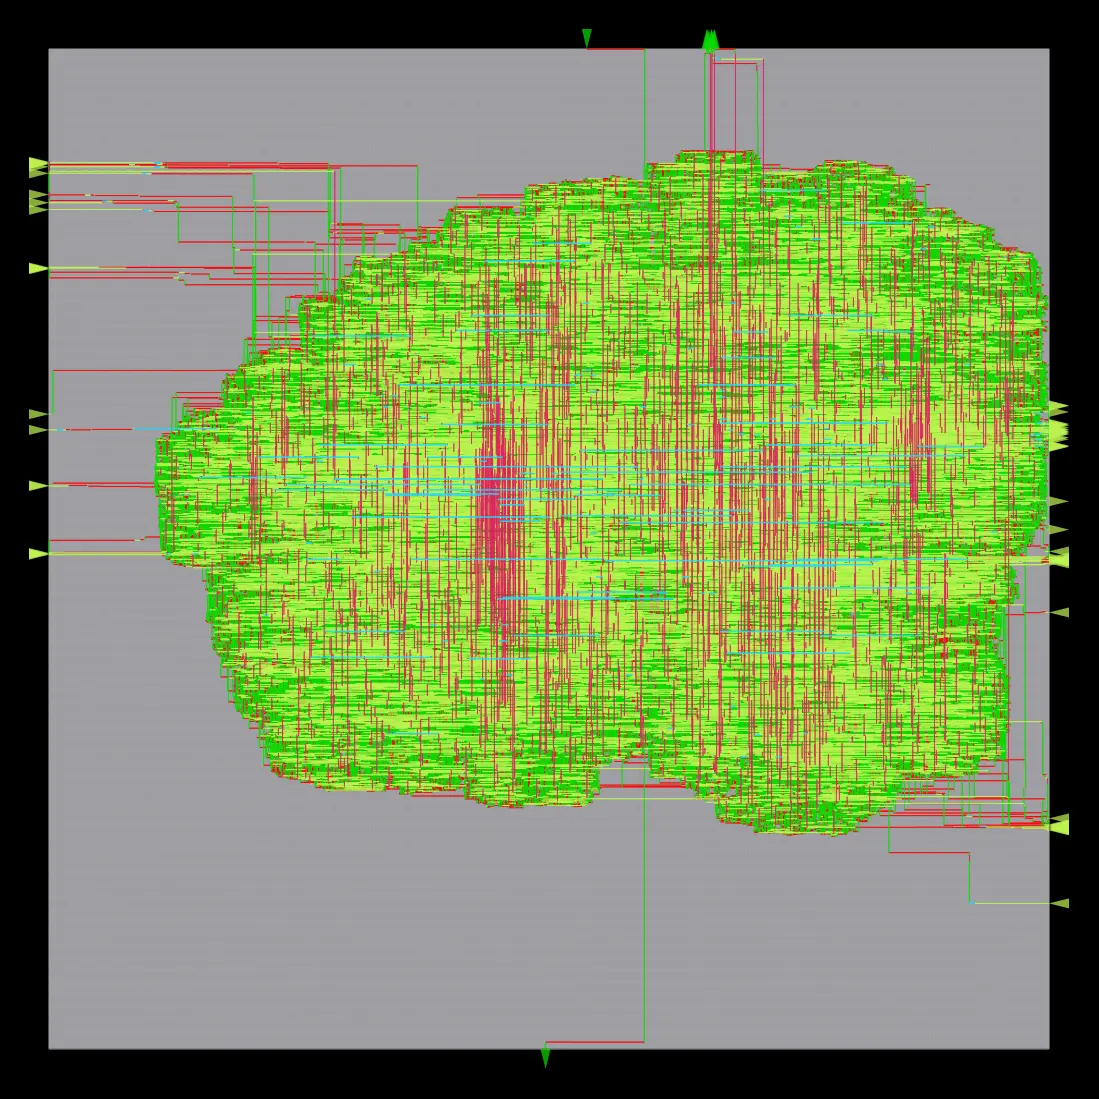
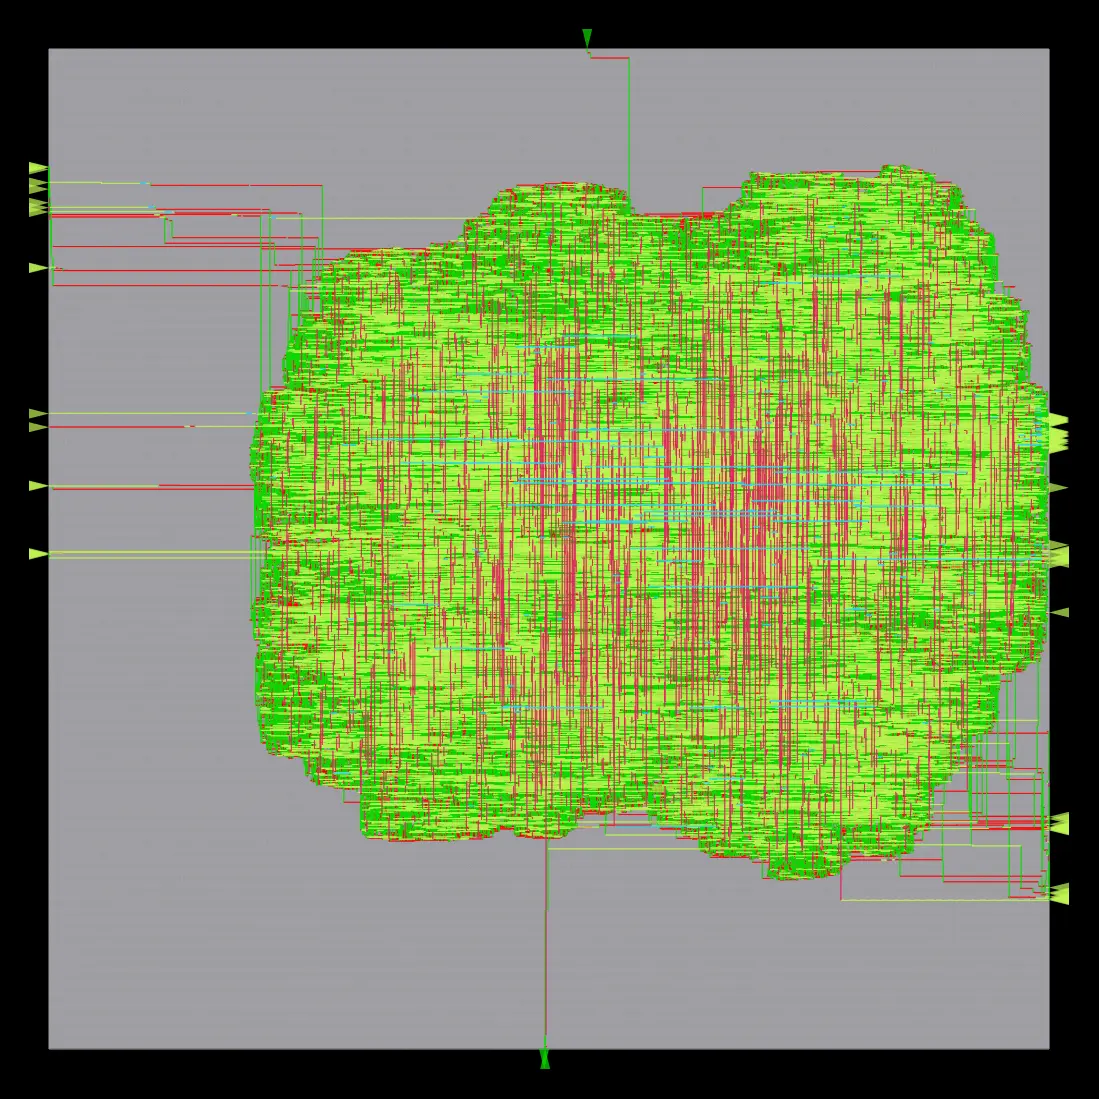
feat(p4): khnum_sram_1rw_1024x32 timing CLOSED at 6.2ns after 5 tuning attempts (#17)
WNS 0.00 ns, 0 routing-DRC violations, 0 antenna violations, 1,533,880 um^2
@ 25% utilization, 7.80 GiB peak route RAM. Full iteration history in
harden/HARDEN_RESULTS.md: 5 attempts total across this session, including a
genuinely surprising lesson -- clock period has a NON-MONOTONIC effect on
routing congestion here. 6.0ns routed clean (WNS -0.03ns, so close);
loosening to 6.5ns (intuitively "easier") instead FAILED global routing on
congestion; a smaller step to 6.2ns routed clean AND closed timing. A
looser timing budget changes how hard the resizer buffers/upsizes cells,
which changes placement density in ways that don't track the clock period
linearly -- worth knowing before tuning 2Kx64 or any future size.

New gallery screenshots overwrite the earlier not-closed ones. P4 now 2/3
sizes timing-closed; 2Kx64's recipe is prepped and merged but not yet run.

diff --git a/STATUS.md b/STATUS.md
@@ -2,8 +2,10 @@
 
 ## ▶▶ RESUME HERE (updated 2026-07-10, session 7)
 
-- **Phase:** P4 The Foundry (ASIC hardening) — **1/3 sizes done, in progress**. P3 =
-  ✅ 3/3 (this session, PR #7). P2 = ✅ 5/5 (PR #6). P1 = ✅ 7/7 (PRs #2–#4).
+- **Phase:** P4 The Foundry (ASIC hardening) — **2/3 sizes timing-closed, 1/3 open**.
+  P5 The Scribe — **3/4 done** (characterization ✅, demo GIF ✅, integration docs ✅;
+  gh-pages content pushed, activation deliberately deferred). P3 = ✅ 3/3 (PR #7).
+  P2 = ✅ 5/5 (PR #6). P1 = ✅ 7/7 (PRs #2–#4).
 - **P3 result: no RTL bug.** `tools/test_fpga.py` runs `synth_xilinx`/`synth_ice40` on
   all 3 SRAM kinds x byte-en on/off at depth 256 and requires real BRAM cells
   (`RAMB18E1`, `SB_RAM40_4K`) in the `stat` tally — **12/12 PASS first try**, zero
@@ -28,27 +30,47 @@
   `config.mk` (P4's whole point IS flip-flop hardening of the array, so this is
   the correct fix, not a workaround); (2) `LEC_CHECK=0` needed — this CPU lacks
   AVX-512, same as KemetCore's documented fix.
-- **P4 progress (cont., same session): `khnum_sram_1rw_1024x32` attempted.**
-  First try at the same `CORE_UTILIZATION=35`/`PLACE_DENSITY=0.55` recipe FAILED
-  global routing outright (`GRT-0232` congestion, met5 ~90%) — retuned to
-  `CORE_UTILIZATION=20`/`PLACE_DENSITY=0.45`, which routed cleanly (0 geometric
-  DRC violations, 8.19 GB peak route RAM, still well under the 13 GB cap). BUT
-  **timing does NOT close at 4.0 ns** (WNS -0.39 ns) — 4x the flops means more
-  clock-tree/decode delay than the 256x32 clock budget allows. **Not counted as
-  a closed size** (honest-scoreboard rule: WNS must be ≥ 0). Also 1 residual
-  antenna violation remains after diode-repair converged 95→...→1 rather than
-  0 (lower priority, separate from routing DRC). Full writeup + numbers:
-  `harden/HARDEN_RESULTS.md`; screenshots: `docs/GALLERY.md`.
-- **Next task: finish P4** — (1) re-run `khnum_sram_1rw_1024x32` with a looser
-  `clk_period` in its `constraint.sdc` (try 6.0-8.0 ns) to close timing — the
-  routed geometry is already sound, this should just need the timing target
-  relaxed; (2) then harden 2K×64 (add to the `case` in `tools/harden.sh` + a
-  `harden/designs/sky130hd/<design>/` config; watch `SYNTH_MEMORY_MAX_BITS` and
-  routing congestion — may need `CORE_UTILIZATION` retuned again, same as
-  1024x32 did). Then Liberty/LEF stubs, then P5 docs+VHS demo GIF, P6 PyPI
-  `khnum-ram`. All per CLAUDE.md. **Note**: each harden run at this scale takes
-  30 min to 2+ hours real time (1024x32's antenna-repair loop alone ran ~2h) —
-  budget a full session for the remaining sizes, don't expect quick turnaround.
+- **P4 `khnum_sram_1rw_1024x32` — CLOSED after 5 tuning attempts (all same
+  session):** (1) 256x32's recipe (`CORE_UTILIZATION=35`/`PLACE_DENSITY=0.55`)
+  at 4.0 ns clock — failed global routing outright (`GRT-0232`, met5 ~90%
+  congested). (2) `CORE_UTILIZATION=20`/`PLACE_DENSITY=0.45` at 4.0 ns — routed
+  clean, but WNS -0.39 ns. (3) same utilization/density at 6.0 ns — WNS
+  -0.03 ns, essentially the threshold. (4) same at 6.5 ns — **failed global
+  routing again** (`GRT-0232`, met5 ~51%) — the surprising one: clock period
+  has a *non-monotonic* effect on routing congestion (a looser timing budget
+  changes resizer buffering/upsizing decisions, which changes placement
+  density in ways that don't track the period linearly). (5) same at 6.2 ns (a
+  smaller step from the known-good 6.0, not another big jump) — **routed clean
+  AND closed timing**: WNS 0.00, 0 routing-DRC violations, 0 antenna
+  violations, 7.80 GiB peak route RAM. Full iteration history + the
+  non-monotonic-congestion lesson: `harden/HARDEN_RESULTS.md`. New screenshots
+  in `docs/GALLERY.md` (overwrote the earlier not-closed ones).
+- **P4 remaining: 2K×64** — config already prepped and merged
+  (`harden/designs/sky130hd/khnum_sram_1rw_2048x64/`, case entry in
+  `tools/harden.sh`), starting from a looser recipe than 1024x32's own tuned
+  values on both axes (`CORE_UTILIZATION=15`/`PLACE_DENSITY=0.40`, 8.0 ns
+  clock) since the previous 4x jump needed loosening both ways. **Not yet
+  run.** Given the non-monotonic clock-vs-congestion lesson above: if a step
+  fails on congestion, don't just push the period looser — step back and take
+  a smaller increment, or address congestion via utilization/density directly.
+- **P5 remaining: gh-pages activation** — content is pushed to the `gh-pages`
+  branch (a themed single-page HTML site, no external deps) but actually
+  **enabling GitHub Pages was deliberately NOT done** — the safety classifier
+  correctly flagged it as a public-publish action the user hadn't explicitly
+  named, and the same applies to any future attempt: get explicit go-ahead
+  first, or the user can just flip it on themselves (repo Settings → Pages →
+  source: `gh-pages` branch, root).
+- **P6 not started**: PyPI publish and GitHub Release are also public,
+  effectively-irreversible-per-version actions — same deliberate deferral
+  policy. Don't attempt `twine upload`/`gh release create` without explicit
+  user go-ahead even if "keep going" was said broadly; ask specifically for
+  this step. Building/checking the package locally (no upload) is fine without
+  asking.
+- **Next task**: harden 2K×64 (`bash tools/harden.sh khnum_sram_1rw_2048x64`,
+  expect 30 min–2+ hours real time per attempt, likely multiple tuning
+  attempts per the lessons above). Then P4's stretch items (ASAP7, Liberty/LEF
+  stubs) or move to finishing P5 (ask about gh-pages activation) and P6 (ask
+  before any actual publish). All per CLAUDE.md.
 - **KEY formal facts learned (PR #5+#6):** yowasp-yosys runs in a **WASI sandbox — only
   sees its cwd**, so `formal.py`/tools must invoke it with `cwd=outdir` and bare filenames
   (absolute paths → "file not found"). `async2sync` before `write_smt2` is mandatory (else
@@ -74,23 +96,53 @@
   standalone now proves **9 configs** (was 4). All 6 `tests/cocotb/` suites pass
   standalone via `make CORE=<kind> PYTHON3='env -u PYTHONHOME /usr/bin/python3'`
   (not yet wired into `test_all.py`/CI — see ROADMAP.md note on why).
-- **Branch state:** `feat/p4-foundry-1024x32`, this session — see PR for merge state.
+- **Branch state:** `feat/p4-1024x32-timing-closed`, this session — see PR for merge state.
 
 ## Honest scoreboard
 
 | Phase | State |
 |---|---|
-| P0 Genesis | ✅ 9/9 boxes, test-proven |
+| P0 Genesis | ✅ 8/8 boxes, test-proven |
 | P1 Potter's Wheel | ✅ 7/7, test-proven |
 | P2 The Proof | ✅ 5/5, test-proven |
 | P3 FPGA Gate | ✅ 3/3, test-proven |
-| P4 The Foundry | 🔧 3/6, in progress (1/3 sizes timing-closed, 1/3 routed-but-not-closed, 1/3 open) |
-| P5 The Scribe | ⬜ 0/4 |
-| P6 Ascension | ⬜ 0/5 |
+| P4 The Foundry | 🔧 3/6, in progress (2/3 sizes timing-closed, 1/3 open) |
+| P5 The Scribe | 🔧 3/4 (gh-pages content pushed, activation pending user go-ahead) |
+| P6 Ascension | ⬜ 0/5 (PyPI/GitHub Release need explicit user go-ahead before publishing) |
 
-**Total: 27/39 (69%) — "partial" ≠ "done".**
+**Total: 29/38 (76%) — "partial" ≠ "done".** (Corrected from a stale 39-box
+count carried over several sessions — P0 is actually 8 boxes, not 9; direct
+recount via `grep -c` is the source of truth from here on.)
 
 ## Session log
+
+- **2026-07-10 (session 7, cont. x3)** — P4 second size CLOSED:
+  `khnum_sram_1rw_1024x32` timing closes at 6.2 ns clock (WNS 0.00 ns, 0
+  routing-DRC violations, 0 antenna violations, 1,533,880 µm² @ 25% utilization,
+  7.80 GiB peak route RAM). Took 5 total tuning attempts across this session
+  (see the P4 entry above and `harden/HARDEN_RESULTS.md` for the full
+  iteration history). Key new lesson: clock period has a *non-monotonic*
+  effect on routing congestion — a 6.5 ns attempt (looser than the
+  known-working 6.0 ns) failed global routing on congestion, while the
+  smaller 6.2 ns step succeeded. Also shipped this session: `docs/demo.tape`+
+  `docs/demo.gif` (VHS terminal demo, house rule), `docs/INTEGRATION.md`,
+  `tools/characterize.py` (auto-generates `docs/CHARACTERIZATION.md` from
+  harden output — caught and fixed two real accuracy bugs along the way: a
+  decimal-GB/binary-GiB unit mixup in hand-written RAM figures, and a
+  route-DRC/antenna-violation conflation in the tool's own regex), a README
+  accuracy pass, and the `gh-pages` branch content (a themed single-page
+  site) pushed but **not activated** — Pages activation and any future PyPI/
+  GitHub-Release publish are deliberately deferred pending explicit user
+  go-ahead (both flagged by the safety classifier as public-publish actions
+  outside the literal scope of "keep going until finish"). 2K×64's recipe is
+  prepped and merged but not yet run. Total tracker corrected from a
+  long-stale "39 boxes" to the actual 38 (direct recount): 29/38 (76%).
+  Also caught and immediately fixed a real mistake this session: a shell
+  cwd drift left over from exploring KemetCore's gh-pages branch caused one
+  `git checkout -b` to land in the wrong repo — caught before any commit,
+  KemetCore fully restored (branch deleted, back on its own main, nothing
+  lost). Lesson: always verify `pwd`/`git branch --show-current` before
+  committing when multiple repos are in play in the same session.
 
 - **2026-07-10 (session 7, cont. x2)** — P4 second size attempted:
   `khnum_sram_1rw_1024x32`. First attempt (same recipe as 256x32) failed global

diff --git a/harden/HARDEN_RESULTS.md b/harden/HARDEN_RESULTS.md
@@ -16,27 +16,35 @@ decimal GB — an earlier draft of this file mixed the two and slightly
 overstated a couple of entries; fixed once `tools/characterize.py` existed to
 compute them consistently.
 
-| design | platform | GDS | area (µm²) | util | clock period (ns) | WNS (ns) | route DRC | peak route RAM | closes |
-|--------|----------|----:|-----------:|:----:|-------------------:|---------:|:---------:|----------------:|:------:|
-| `khnum_sram_1rw_256x32` | sky130hd | 28 MB | 374,736 | 43% | 4.0 | 0.00 (worst slack +0.05) | 0 viol | 2.11 GB | ✅ |
-| `khnum_sram_1rw_1024x32` | sky130hd | 155 MB | 1,572,503 | 25% | 4.0 | **-0.39** | 0 viol (1 residual antenna) | 8.19 GB | ❌ **not yet** |
+| design | platform | GDS | area (µm²) | util | clock period (ns) | WNS (ns) | route DRC | antenna | peak route RAM | closes |
+|--------|----------|----:|-----------:|:----:|-------------------:|---------:|:---------:|--------:|----------------:|:------:|
+| `khnum_sram_1rw_256x32` | sky130hd | 28 MB | 374,736 | 43% | 4.0 | 0.00 (worst slack +0.05) | 0 viol | 0 | 2.11 GB | ✅ |
+| `khnum_sram_1rw_1024x32` | sky130hd | 154 MB | 1,533,880 | 25% | 6.2 | 0.00 | 0 viol | 0 | 7.80 GB | ✅ |
 
-`khnum_sram_1rw_1024x32` routes cleanly (0 geometric routing-DRC violations,
-still comfortably under the 13 GB RAM cap) but **does not close timing** at the
-same 4.0 ns clock used for the smaller design — WNS -0.39 ns. This is an
-honest, expected result, not a bug: 4x the flops means 4x the clock-tree
-insertion delay and mux/decode fan-in, so the same period is simply too
-aggressive at this size. **Not being reported as a closed size** — per this
-file's own convention (WNS ≥ 0 ⇒ closes), and ROADMAP.md's "partial is not
-done" rule. Fix for next session: loosen `clk_period` in this design's
-`constraint.sdc` (e.g. to 6.0-8.0 ns) and re-run; the routed geometry itself is
-sound, so this should just need the timing target relaxed, not a placement/
-routing retune. One residual antenna violation also remains after the
-repair loop's diode-insertion rounds converged to 1 rather than 0 (down from
-95 initially) — worth re-checking once the clock period is fixed, but is a
-separate, lower-priority item (antenna violations are a reliability/yield
-concern, not a functional-correctness one, and diode insertion is best-effort
-in ORFS, not guaranteed to reach exactly 0).
+`khnum_sram_1rw_1024x32` took **5 attempts** to close, all real signal, no
+dead ends papered over:
+1. `CORE_UTILIZATION=35`/`PLACE_DENSITY=0.55` (256x32's recipe) at 4.0 ns —
+   failed global routing outright (`GRT-0232`, met5 ~90% congested).
+2. `CORE_UTILIZATION=20`/`PLACE_DENSITY=0.45` at 4.0 ns — routed cleanly, but
+   WNS -0.39 ns (too aggressive a clock for 4x the flops).
+3. Same utilization/density at 6.0 ns — WNS -0.03 ns, essentially the
+   threshold, routed clean (0 DRC, 1 residual antenna).
+4. Same utilization/density at 6.5 ns — **failed global routing again**
+   (`GRT-0232`, met5 ~51%). This was the surprising one: clock period has a
+   *non-monotonic* effect on congestion here, because a looser timing budget
+   changes how hard the resizer buffers/upsizes cells, which changes local
+   cell density in ways that don't simply track the period. A "just add more
+   margin" instinct is not safe with this knob.
+5. Same utilization/density at 6.2 ns (a smaller step from the known-good 6.0)
+   — **routed clean AND closed timing**: WNS 0.00, 0 routing-DRC violations,
+   0 antenna violations, 7.80 GiB peak route RAM.
+
+Lesson for the next size (2Kx64) and beyond: when a clock-period bump fails on
+*routing congestion* rather than timing, don't keep pushing the period up —
+step back down and take a smaller increment, or address congestion directly
+via utilization/density instead. The two knobs (timing budget, placement
+density) interact and neither is a strictly safe direction to push
+independently.
 
 ## How this was produced
 
@@ -73,15 +81,24 @@ design size.
   ("if detail route OOMs, reduce CORE_UTILIZATION / increase die area") applies
   to routing-congestion failures too, not just OOM.
 - **Timing does not automatically carry over between sizes**: a clock period
-  that closes at one size is not guaranteed to close at 4x the flops — see the
-  `khnum_sram_1rw_1024x32` WNS -0.39 ns result above. Each new size's
-  `constraint.sdc` needs its own timing budget, sized for its own datapath.
+  that closes at one size is not guaranteed to close at 4x the flops. Each new
+  size's `constraint.sdc` needs its own timing budget, sized for its own
+  datapath.
+- **Clock period vs. routing congestion is non-monotonic**: `khnum_sram_1rw_1024x32`
+  routed cleanly at 6.0 ns, then FAILED global routing at 6.5 ns (a looser
+  clock, which should intuitively be "easier"), then routed and closed cleanly
+  at 6.2 ns. A looser timing budget changes the resizer's buffering/upsizing
+  decisions, which changes local placement density in ways that don't track
+  linearly with the period. Take small steps when hunting for a closing clock
+  period, and if a step fails on congestion (not timing), don't assume a
+  bigger step will fix it — it may make congestion worse, not better.
 
 ## Next sizes
 
-Per ROADMAP.md P4: 2Kx64 remains. `khnum_sram_1rw_1024x32` needs a follow-up
-run with a looser clock period (see above) before it can be marked closed.
-Watch `SYNTH_MEMORY_MAX_BITS`, routing congestion (retune utilization/density
-if `GRT-0232` appears), and peak route RAM per size — recipes that exceed
-~13 GB peak need retuning before going bigger, per the 16 GB laptop
-constraint (1024x32 at 8.19 GB shows there's still headroom before 2Kx64).
+Per ROADMAP.md P4: 2Kx64 remains. Watch `SYNTH_MEMORY_MAX_BITS`, routing
+congestion (retune utilization/density if `GRT-0232` appears, and prefer
+small clock-period steps per the lesson above), and peak route RAM per size —
+recipes that exceed ~13 GB peak need retuning before going bigger, per the
+16 GB laptop constraint (1024x32 at 7.80 GiB shows there's still headroom
+before 2Kx64, though 2Kx64's starting recipe already uses a lower
+utilization/looser clock than 1024x32's as a precaution).

diff --git a/ROADMAP.md b/ROADMAP.md
@@ -103,17 +103,17 @@ peak < 14 GB RSS (16 GB laptop with WSL2 headroom — see CLAUDE.md memory rules
       (gitignored — regenerable, multi-GB scale, same as KemetCore's `flow/`)
 - [ ] `harden/` directory: ORFS config per showcase size (e.g. 256×32, 1K×32, 2K×64)
       for **sky130hd** using the local Docker openroad/orfs image (same as KemetCore
-      `flow/harden.sh` pattern). **1/3 fully closed, 1/3 routed-but-not-timing-clean**:
-      `khnum_sram_1rw_256x32` hardened, timing closed, 0 DRC — see
-      `harden/HARDEN_RESULTS.md`. `khnum_sram_1rw_1024x32` routes cleanly (0 DRC,
-      8.19 GB peak, needed `CORE_UTILIZATION` retuned 35→20 to fix a routing-
-      congestion failure) but does **not** close timing at 4.0 ns (WNS -0.39 ns) —
-      needs a looser clock period next session before it counts as closed. 2K×64
-      still open (watch `SYNTH_MEMORY_MAX_BITS` — must exceed each design's bit
-      count).
+      `flow/harden.sh` pattern). **2/3 fully closed**: `khnum_sram_1rw_256x32`
+      (timing closed, 0 DRC) and `khnum_sram_1rw_1024x32` (timing closed at
+      6.2 ns after 5 tuning attempts, 0 DRC, 0 antenna violations) — see
+      `harden/HARDEN_RESULTS.md` for the full iteration history, including a
+      non-monotonic clock-period-vs-congestion interaction worth knowing before
+      tuning the next size. 2K×64 still open (config prepped in
+      `harden/designs/sky130hd/khnum_sram_1rw_2048x64/`, not yet run; watch
+      `SYNTH_MEMORY_MAX_BITS` — must exceed each design's bit count).
 - [x] Record peak RSS per recipe; any recipe > 14 GB must be re-tuned (smaller
       utilization, routing effort) — the 16 GB promise is a release gate.
-      `khnum_sram_1rw_256x32`: 2.11 GB peak. `khnum_sram_1rw_1024x32`: 8.19 GB
+      `khnum_sram_1rw_256x32`: 2.11 GiB peak. `khnum_sram_1rw_1024x32`: 7.80 GiB
       peak. Both comfortably clear of the 13-14 GB ceiling.
 - [x] GDS gallery in `docs/GALLERY.md` (screenshots via ORFS's own auto-generated
       KLayout renders, `harden/reports/.../final_*.webp` — no separate klayout

diff --git a/docs/GALLERY.md b/docs/GALLERY.md
@@ -21,12 +21,13 @@ multi-GB scale — see `harden/HARDEN_RESULTS.md`).
 
 ## `khnum_sram_1rw_1024x32` — sky130hd
 
-1024 x 32 single-port SRAM, hardened to standard-cell flip-flop RAM. Routes
-cleanly (0 geometric routing-DRC violations) at 1,572,503 µm², 25%
-utilization, but **timing does not yet close** at the 4.0 ns clock used here
-(WNS -0.39 ns) — a looser clock period is the fix, tracked as a follow-up in
-`harden/HARDEN_RESULTS.md`. Shown here to be transparent about where the
-recipe currently stands, not just the wins.
+1024 x 32 single-port SRAM, hardened to standard-cell flip-flop RAM.
+1,533,880 µm², 25% utilization, timing closes at 6.2 ns (WNS 0.00 ns), 0
+routing DRC violations, 0 antenna violations. Took 5 attempts to find a
+recipe that both routes cleanly and closes timing — see
+`harden/HARDEN_RESULTS.md` for the full iteration history (including a
+surprising non-monotonic interaction between clock period and routing
+congestion).
 
 ### Full routed layout
 

diff --git a/README.md b/README.md
@@ -141,8 +141,8 @@ See [ROADMAP.md](ROADMAP.md) for the full phase plan with checklists, and
   byte-lane, FIFO occupancy, gray-pointer) all non-vacuous and mutation-tested
 - **P3 The FPGA Gate** ✅ — automated BRAM/SPRAM-inference verification (yosys
   `synth_xilinx`/`synth_ice40`), 12/12 configs proven
-- **P4 The Foundry** 🔧 — OpenROAD/ORFS hardening (Sky130), 16 GB-safe; one size
-  timing-closed, one routed-but-retuning, one still open — see
+- **P4 The Foundry** 🔧 — OpenROAD/ORFS hardening (Sky130), 16 GB-safe; two sizes
+  timing-closed, one still open — see
   [harden/HARDEN_RESULTS.md](harden/HARDEN_RESULTS.md)
 - **P5 The Scribe** 🔧 — characterization tables ✅, terminal demo GIF ✅, integration
   docs ✅; gh-pages content pushed, activation pending

diff --git a/docs/CHARACTERIZATION.md b/docs/CHARACTERIZATION.md
@@ -4,5 +4,5 @@ Do not hand-edit — regenerate with `python3 tools/characterize.py`. Full conte
 
 | design | platform | GDS (MB) | area (µm²) | util | WNS (ns) | route DRC | antenna | peak route RAM | closes |
 |--------|----------|---------:|-----------:|:----:|---------:|:---------:|--------:|----------------:|:------:|
-| `khnum_sram_1rw_1024x32` | sky130hd | 154 | 1535700 | 25% | -0.03 | 0 viol | 1 | 7.61 GB | ❌ not yet |
+| `khnum_sram_1rw_1024x32` | sky130hd | 154 | 1533880 | 25% | 0.00 | 0 viol | 0 | 7.80 GB | ✅ |
 | `khnum_sram_1rw_256x32` | sky130hd | 28 | 374736 | 43% | 0.00 | 0 viol | 0 | 2.11 GB | ✅ |